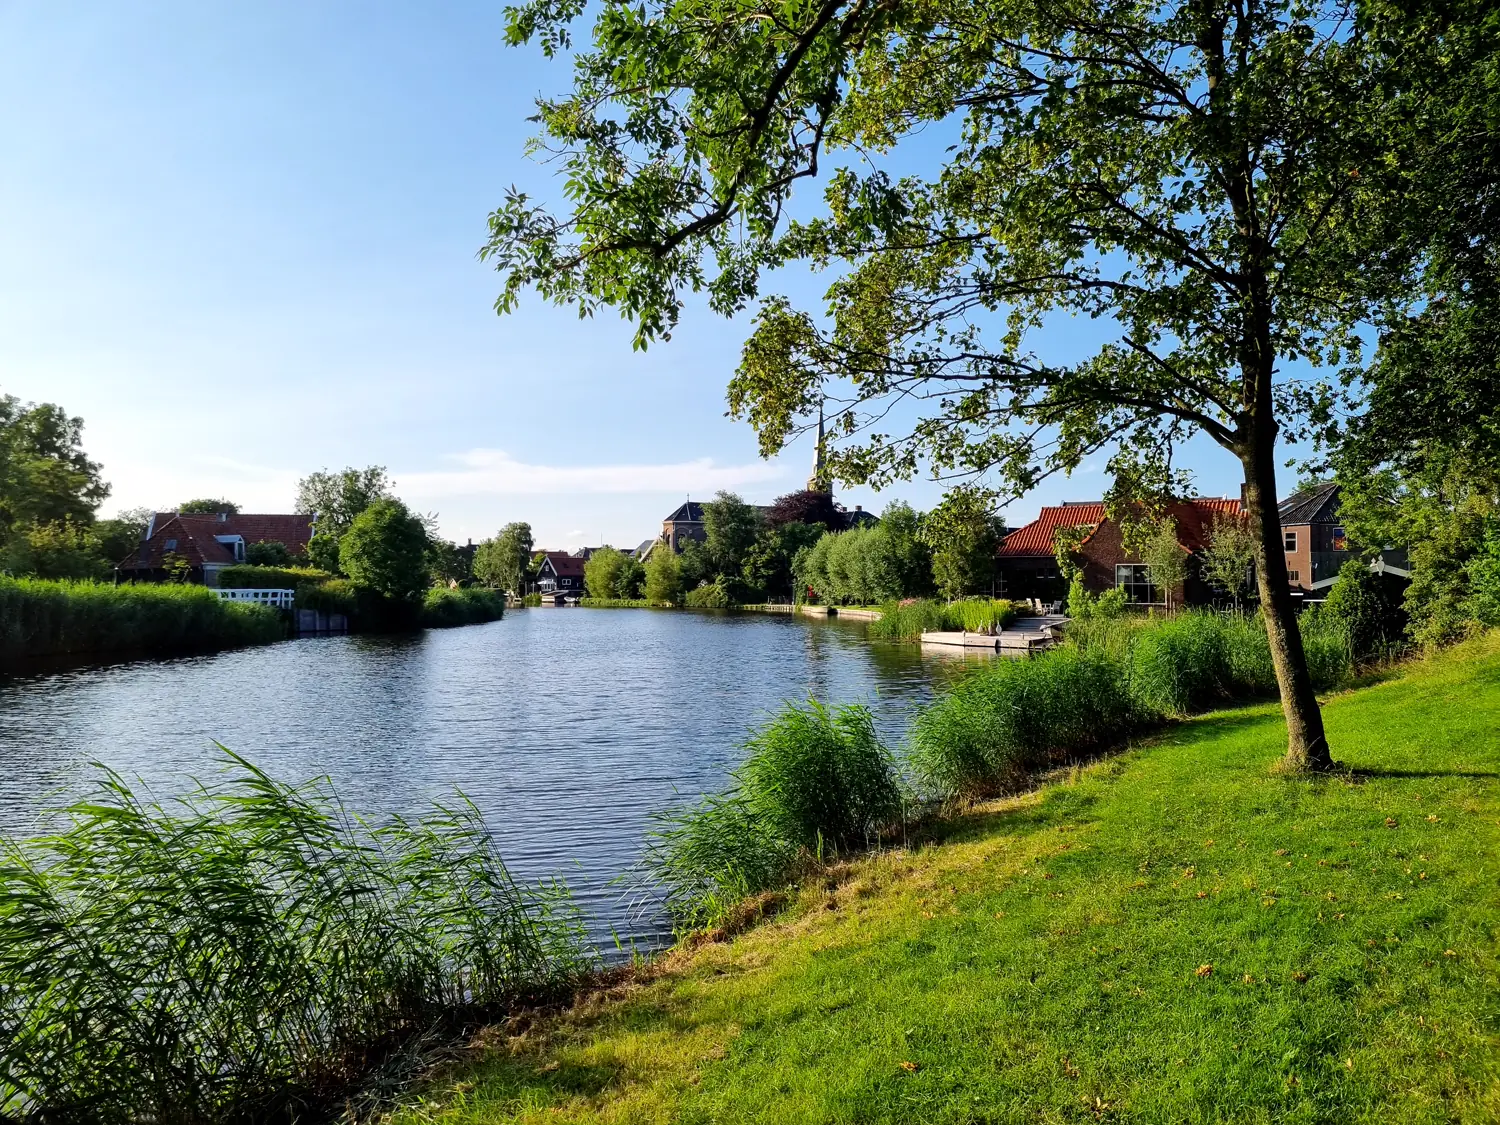
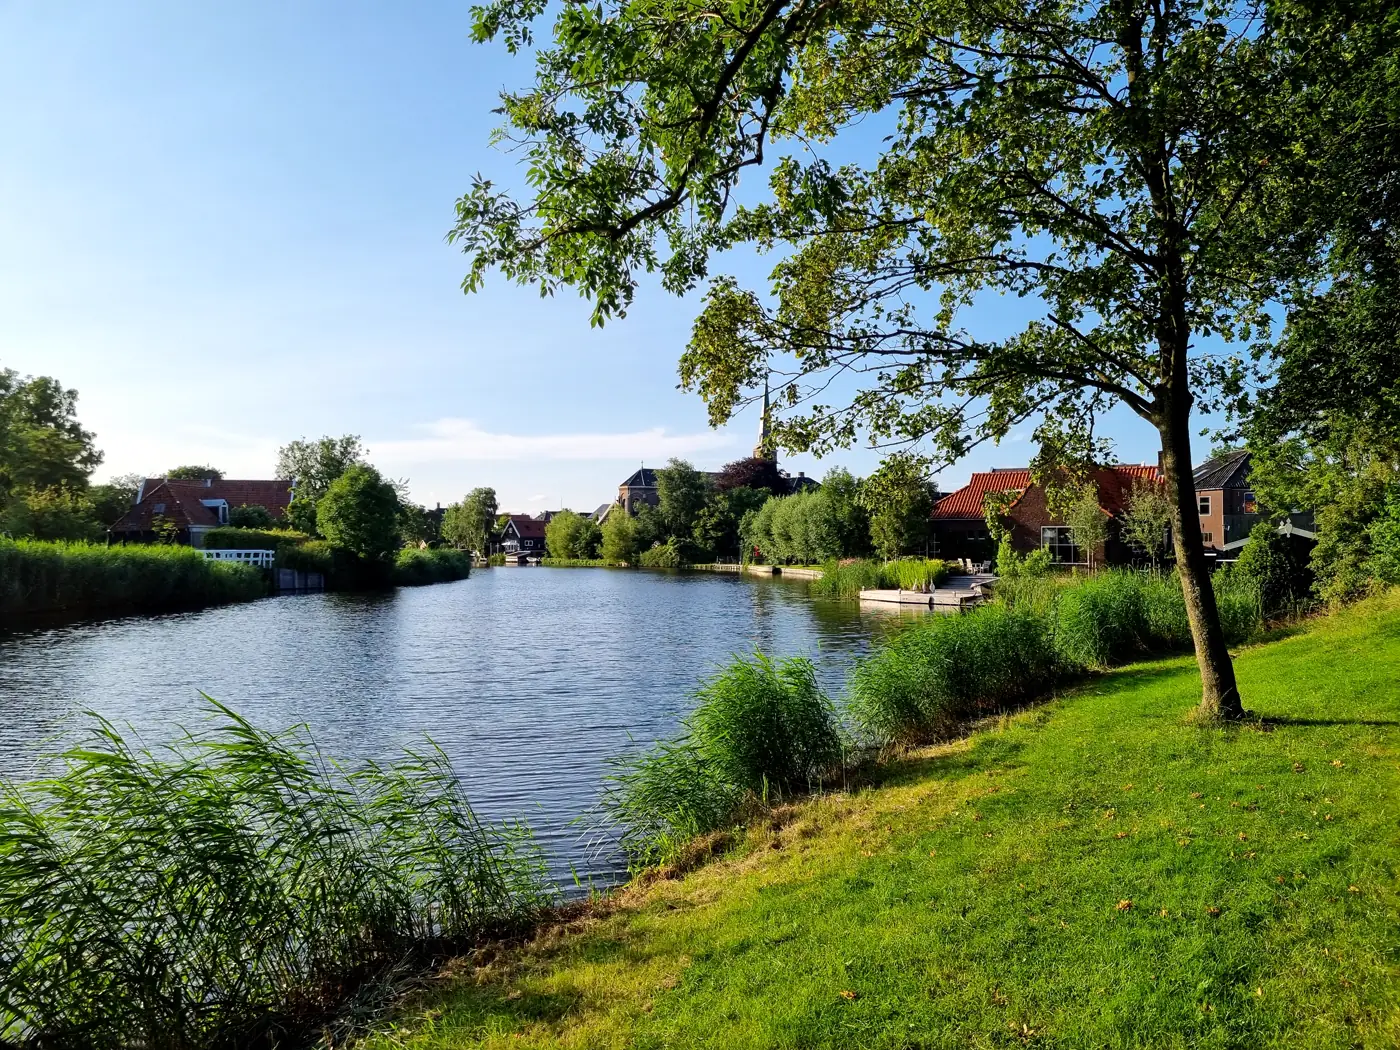
big seo push

diff --git a/index.html b/index.html
@@ -55,6 +55,14 @@
     },
     "areaServed": ["Purmerend", "Edam-Volendam", "Waterland", "Zaanstad", "Castricum", "Limmen", "Noord-Holland"],
     "serviceType": ["Webdesign", "Website ontwikkeling", "Logo design", "Branding"],
+    "openingHoursSpecification": [
+      {
+        "@type": "OpeningHoursSpecification",
+        "dayOfWeek": ["Monday", "Tuesday", "Wednesday", "Thursday", "Friday"],
+        "opens": "09:00",
+        "closes": "17:00"
+      }
+    ],
     "sameAs": ["https://www.instagram.com/brand.on.webdesign/"],
     "priceRange": "€€"
   }
@@ -245,6 +253,58 @@
               <h3>TEKENBUREAU WINTER</h3>
               <p>Tekenbureau</p>
               <div class="proj-tags"><span class="tag">Website</span><span class="tag">Branding</span><span class="tag">Fotografie</span></div>
+            </div>
+          </a>
+        </div>
+      </div>
+    </section>
+
+    <!-- ===================== BLOG TEASER ===================== -->
+    <section class="section bg-tint">
+      <div class="wrap">
+        <div class="section-head" data-reveal style="display:flex;justify-content:space-between;align-items:flex-end;max-width:none;gap:24px;flex-wrap:wrap">
+          <div>
+            <span class="eyebrow">03 — Blog</span>
+            <h2 class="h2" style="margin-top:20px">Inzichten uit de studio</h2>
+          </div>
+          <a class="text-link" href="/blog">Lees alle artikelen op de blog <span aria-hidden="true">↗</span></a>
+        </div>
+
+        <div class="blog-grid">
+          <a class="blog-card blog-card--prijzen" href="/blog-hoeveel-kost-een-website-mkb" data-reveal>
+            <div class="blog-card__cover">
+              <span class="blog-card__cat">Prijsgids</span>
+              <span class="blog-card__num" aria-hidden="true">01</span>
+            </div>
+            <div class="blog-card__body">
+              <span class="blog-card__meta">7 min lezen</span>
+              <h3 class="blog-card__title">Hoeveel kost een website voor een mkb-bedrijf?</h3>
+              <p class="blog-card__excerpt">Een heldere prijsgids: wat een professionele website voor het MKB gemiddeld kost, waar je voor betaalt en hoe je verborgen kosten voorkomt.</p>
+              <span class="text-link">Lees het artikel <span aria-hidden="true">↗</span></span>
+            </div>
+          </a>
+          <a class="blog-card blog-card--fotografie" href="/blog-website-klaarmaken-hoogseizoen" data-reveal style="--reveal-delay:.1s">
+            <div class="blog-card__cover">
+              <span class="blog-card__cat">Tips</span>
+              <span class="blog-card__num" aria-hidden="true">02</span>
+            </div>
+            <div class="blog-card__body">
+              <span class="blog-card__meta">6 min lezen</span>
+              <h3 class="blog-card__title">Klaar voor het hoogseizoen? Zo bereid je je website voor</h3>
+              <p class="blog-card__excerpt">Snelheid, mobiel, duidelijke acties en actuele info: zo maak je je website klaar voor een piek aan bezoekers in je drukste maanden.</p>
+              <span class="text-link">Lees het artikel <span aria-hidden="true">↗</span></span>
+            </div>
+          </a>
+          <a class="blog-card blog-card--hosting" href="/blog-website-eenmanszaak-bouw" data-reveal style="--reveal-delay:.2s">
+            <div class="blog-card__cover">
+              <span class="blog-card__cat">Branche</span>
+              <span class="blog-card__num" aria-hidden="true">03</span>
+            </div>
+            <div class="blog-card__body">
+              <span class="blog-card__meta">6 min lezen</span>
+              <h3 class="blog-card__title">Website voor een eenmanszaak in de bouw: wat moet erop staan?</h3>
+              <p class="blog-card__excerpt">Van projectfoto's tot offerteknop en lokale SEO: de complete checklist voor een bouwwebsite die echt opdrachten oplevert.</p>
+              <span class="text-link">Lees het artikel <span aria-hidden="true">↗</span></span>
             </div>
           </a>
         </div>

diff --git a/contact.html b/contact.html
@@ -15,19 +15,54 @@
   </script>
   <meta name="viewport" content="width=device-width, initial-scale=1.0">
   <title>Contact — Brand-On Webdesign studio</title>
-  <meta name="description" content="Neem contact op met Brand-On. Binnen één werkdag een persoonlijk antwoord. Geen verkooppraatje.">
+  <meta name="description" content="Neem contact op met Brand-On voor een nieuwe website of een vrijblijvend gesprek. Binnen één werkdag een persoonlijk antwoord, zonder verkooppraatje.">
   <link rel="canonical" href="https://brand-on.org/contact">
   <meta name="robots" content="index, follow">
   <meta name="geo.region" content="NL-NH">
   <meta name="geo.placename" content="Purmerend">
   <meta property="og:title" content="Contact — Brand-On Webdesign studio">
-  <meta property="og:description" content="Neem contact op met Brand-On. Binnen één werkdag een persoonlijk antwoord. Geen verkooppraatje.">
+  <meta property="og:description" content="Neem contact op met Brand-On voor een nieuwe website of een vrijblijvend gesprek. Binnen één werkdag een persoonlijk antwoord, zonder verkooppraatje.">
   <meta property="og:url" content="https://brand-on.org/contact">
   <meta property="og:type" content="website">
   <meta property="og:image" content="https://brand-on.org/assets/img/logo_blauw.png">
   <meta property="og:locale" content="nl_NL">
   <meta property="og:site_name" content="Brand-On">
   <meta name="twitter:card" content="summary">
+  <script type="application/ld+json">
+  {
+    "@context": "https://schema.org",
+    "@type": "ContactPage",
+    "name": "Contact — Brand-On",
+    "url": "https://brand-on.org/contact",
+    "inLanguage": "nl-NL",
+    "mainEntity": {
+      "@type": "LocalBusiness",
+      "@id": "https://brand-on.org/#business",
+      "name": "Brand-On",
+      "email": "[email redacted]",
+      "telephone": "[phone redacted]",
+      "url": "https://brand-on.org/",
+      "address": {
+        "@type": "PostalAddress",
+        "streetAddress": "Saint Helenabaai 31",
+        "postalCode": "1448 SK",
+        "addressLocality": "Purmerend",
+        "addressRegion": "Noord-Holland",
+        "addressCountry": "NL"
+      }
+    }
+  }
+  </script>
+  <script type="application/ld+json">
+  {
+    "@context": "https://schema.org",
+    "@type": "BreadcrumbList",
+    "itemListElement": [
+      { "@type": "ListItem", "position": 1, "name": "Home", "item": "https://brand-on.org/" },
+      { "@type": "ListItem", "position": 2, "name": "Contact", "item": "https://brand-on.org/contact" }
+    ]
+  }
+  </script>
   <link rel="preconnect" href="https://fonts.googleapis.com">
   <link rel="preconnect" href="https://fonts.gstatic.com" crossorigin>
   <link href="https://fonts.googleapis.com/css2?family=Sora:wght@400;500;600;700;800&family=IBM+Plex+Mono:wght@400;500;600&family=IBM+Plex+Sans:wght@400;500;600;700&display=swap" rel="stylesheet" media="print" onload="this.media='all'">

diff --git a/gratis-concept.html b/gratis-concept.html
@@ -27,6 +27,35 @@
   <meta property="og:locale" content="nl_NL">
   <meta property="og:site_name" content="Brand-On">
   <meta name="twitter:card" content="summary">
+  <script type="application/ld+json">
+  {
+    "@context": "https://schema.org",
+    "@type": "WebPage",
+    "name": "Gratis concept aanvragen — Brand-On",
+    "url": "https://brand-on.org/gratis-concept",
+    "inLanguage": "nl-NL",
+    "description": "Vraag een gratis website concept aan. Wij bouwen een vrijblijvende live demo op basis van jouw huisstijl.",
+    "isPartOf": { "@id": "https://brand-on.org/#business" },
+    "mainEntity": {
+      "@type": "Offer",
+      "name": "Gratis website concept",
+      "price": "0",
+      "priceCurrency": "EUR",
+      "url": "https://brand-on.org/gratis-concept",
+      "seller": { "@id": "https://brand-on.org/#business" }
+    }
+  }
+  </script>
+  <script type="application/ld+json">
+  {
+    "@context": "https://schema.org",
+    "@type": "BreadcrumbList",
+    "itemListElement": [
+      { "@type": "ListItem", "position": 1, "name": "Home", "item": "https://brand-on.org/" },
+      { "@type": "ListItem", "position": 2, "name": "Gratis concept", "item": "https://brand-on.org/gratis-concept" }
+    ]
+  }
+  </script>
   <link rel="preconnect" href="https://fonts.googleapis.com">
   <link rel="preconnect" href="https://fonts.gstatic.com" crossorigin>
   <link href="https://fonts.googleapis.com/css2?family=Sora:wght@400;500;600;700;800&family=IBM+Plex+Mono:wght@400;500;600&family=IBM+Plex+Sans:wght@400;500;600;700&display=swap" rel="stylesheet" media="print" onload="this.media='all'">

diff --git a/over-ons.html b/over-ons.html
@@ -28,6 +28,33 @@
   <meta property="og:locale" content="nl_NL">
   <meta property="og:site_name" content="Brand-On">
   <meta name="twitter:card" content="summary">
+  <script type="application/ld+json">
+  {
+    "@context": "https://schema.org",
+    "@type": "AboutPage",
+    "name": "Over ons — Brand-On",
+    "url": "https://brand-on.org/over-ons",
+    "inLanguage": "nl-NL",
+    "about": {
+      "@type": "Organization",
+      "@id": "https://brand-on.org/#business",
+      "name": "Brand-On",
+      "url": "https://brand-on.org/",
+      "logo": "https://brand-on.org/assets/img/logo_blauw.png",
+      "sameAs": ["https://www.instagram.com/brand.on.webdesign/"]
+    }
+  }
+  </script>
+  <script type="application/ld+json">
+  {
+    "@context": "https://schema.org",
+    "@type": "BreadcrumbList",
+    "itemListElement": [
+      { "@type": "ListItem", "position": 1, "name": "Home", "item": "https://brand-on.org/" },
+      { "@type": "ListItem", "position": 2, "name": "Over ons", "item": "https://brand-on.org/over-ons" }
+    ]
+  }
+  </script>
   <link rel="preconnect" href="https://fonts.googleapis.com">
   <link rel="preconnect" href="https://fonts.gstatic.com" crossorigin>
   <link href="https://fonts.googleapis.com/css2?family=Sora:wght@400;500;600;700;800&family=IBM+Plex+Mono:wght@400;500;600&family=IBM+Plex+Sans:wght@400;500;600;700&display=swap" rel="stylesheet" media="print" onload="this.media='all'">

diff --git a/privacy.html b/privacy.html
@@ -15,19 +15,40 @@
   </script>
   <meta name="viewport" content="width=device-width, initial-scale=1.0">
   <title>Privacybeleid | Brand-On</title>
-  <meta name="description" content="Privacybeleid van Brand-On. Lees hoe wij omgaan met jouw gegevens.">
+  <meta name="description" content="Privacybeleid van Brand-On. Lees welke persoonsgegevens wij verzamelen, waarvoor we ze gebruiken, hoe lang we ze bewaren en welke rechten jij hebt.">
   <link rel="canonical" href="https://brand-on.org/privacy">
   <meta name="robots" content="index, follow">
   <meta name="geo.region" content="NL-NH">
   <meta name="geo.placename" content="Purmerend">
   <meta property="og:title" content="Privacybeleid | Brand-On">
-  <meta property="og:description" content="Privacybeleid van Brand-On. Lees hoe wij omgaan met jouw gegevens.">
+  <meta property="og:description" content="Privacybeleid van Brand-On. Lees welke persoonsgegevens wij verzamelen, waarvoor we ze gebruiken, hoe lang we ze bewaren en welke rechten jij hebt.">
   <meta property="og:url" content="https://brand-on.org/privacy">
   <meta property="og:type" content="website">
   <meta property="og:image" content="https://brand-on.org/assets/img/logo_blauw.png">
   <meta property="og:locale" content="nl_NL">
   <meta property="og:site_name" content="Brand-On">
   <meta name="twitter:card" content="summary">
+  <script type="application/ld+json">
+  {
+    "@context": "https://schema.org",
+    "@type": "WebPage",
+    "name": "Privacybeleid — Brand-On",
+    "url": "https://brand-on.org/privacy",
+    "inLanguage": "nl-NL",
+    "description": "Privacybeleid van Brand-On: hoe wij omgaan met jouw persoonsgegevens.",
+    "isPartOf": { "@id": "https://brand-on.org/#business" }
+  }
+  </script>
+  <script type="application/ld+json">
+  {
+    "@context": "https://schema.org",
+    "@type": "BreadcrumbList",
+    "itemListElement": [
+      { "@type": "ListItem", "position": 1, "name": "Home", "item": "https://brand-on.org/" },
+      { "@type": "ListItem", "position": 2, "name": "Privacybeleid", "item": "https://brand-on.org/privacy" }
+    ]
+  }
+  </script>
   <link rel="preconnect" href="https://fonts.googleapis.com">
   <link rel="preconnect" href="https://fonts.gstatic.com" crossorigin>
   <link href="https://fonts.googleapis.com/css2?family=Sora:wght@400;500;600;700;800&family=IBM+Plex+Mono:wght@400;500;600&family=IBM+Plex+Sans:wght@400;500;600;700&display=swap" rel="stylesheet" media="print" onload="this.media='all'">

diff --git a/projecten.html b/projecten.html
@@ -138,6 +138,16 @@
     <!-- ===================== PROJECT GRID ===================== -->
     <section class="section bg-white">
       <div class="wrap">
+        <div class="split split--center" style="margin-bottom:56px;">
+          <div data-reveal>
+            <span class="eyebrow">Ons werk</span>
+            <h2 class="h2" style="margin-top:20px">Maatwerk voor<br>elke ondernemer.</h2>
+          </div>
+          <div class="stack measure" data-reveal style="--reveal-delay:.1s">
+            <p>Elk project begint bij de ondernemer erachter. Hieronder zie je een selectie van de webdesign projecten die we de afgelopen tijd in Noord-Holland en daarbuiten hebben opgeleverd: van een videoproductiebedrijf en een projectmanagementbureau tot een tekenbureau en een persoonlijk portfolio. Stuk voor stuk maatwerk, gebouwd rond de huisstijl en de doelen van de klant.</p>
+            <p>We werken voor zzp'ers en mkb-bedrijven uit uiteenlopende branches en pakken naast de website vaak ook de branding, het logo en de fotografie op. Heb je zelf een idee voor een nieuwe of vernieuwde website? <a href="/gratis-concept" style="color:#7eb6ff;font-weight:600;">Vraag een gratis concept aan</a> en we bouwen vrijblijvend een live voorproefje op basis van jouw huisstijl.</p>
+          </div>
+        </div>
         <div class="filterbar" data-filterbar data-reveal aria-label="Filter projecten">
           <button class="active" data-filter="all">Alles</button>
           <button data-filter="Website">Website</button>
@@ -154,7 +164,7 @@
             </div>
             <div class="proj-body">
               <h3>ONEMANCREW</h3>
-              <p>Video-productie bedrijf</p>
+              <p>Website, branding en fotografie voor een videoproductiebedrijf.</p>
               <div class="proj-tags"><span class="tag">Website</span><span class="tag">Branding</span><span class="tag">Fotografie</span></div>
             </div>
           </a>
@@ -167,7 +177,7 @@
             </div>
             <div class="proj-body">
               <h3>EDFICIENT</h3>
-              <p>Projectmanagement</p>
+              <p>Website en branding voor een projectmanagementbureau.</p>
               <div class="proj-tags"><span class="tag">Website</span><span class="tag">Branding</span></div>
             </div>
           </a>
@@ -180,7 +190,7 @@
             </div>
             <div class="proj-body">
               <h3>SENNA HOGENDOORN</h3>
-              <p>Cybersecurity</p>
+              <p>Portfolio en branding voor een cybersecurity specialist.</p>
               <div class="proj-tags"><span class="tag">Website</span><span class="tag">Branding</span></div>
             </div>
           </a>
@@ -193,7 +203,7 @@
             </div>
             <div class="proj-body">
               <h3>TEKENBUREAU WINTER</h3>
-              <p>Tekenbureau</p>
+              <p>Website, branding en fotografie voor een tekenbureau.</p>
               <div class="proj-tags"><span class="tag">Website</span><span class="tag">Branding</span><span class="tag">Fotografie</span></div>
             </div>
           </a>

diff --git a/blog-hoeveel-kost-een-website-mkb.html b/blog-hoeveel-kost-een-website-mkb.html
@@ -15,7 +15,7 @@
   </script>
   <meta name="viewport" content="width=device-width, initial-scale=1.0">
   <title>Hoeveel kost een website voor een mkb-bedrijf? | Brand-On</title>
-  <meta name="description" content="Hoeveel kost een website voor een mkb-bedrijf? Ontdek de gemiddelde prijzen, waar je voor betaalt en hoe je verborgen kosten voorkomt. Heldere prijsgids van Brand-On.">
+  <meta name="description" content="Wat kost een website voor het mkb? Ontdek de gemiddelde prijzen, waar je voor betaalt en hoe je verborgen kosten voorkomt. Prijsgids van Brand-On.">
   <link rel="canonical" href="https://brand-on.org/blog-hoeveel-kost-een-website-mkb">
   <meta name="robots" content="index, follow">
   <meta name="author" content="Senna Hogendoorn">

diff --git a/blog-website-klaarmaken-hoogseizoen.html b/blog-website-klaarmaken-hoogseizoen.html
@@ -15,7 +15,7 @@
   </script>
   <meta name="viewport" content="width=device-width, initial-scale=1.0">
   <title>Klaar voor het hoogseizoen? Zo bereid je je website voor op meer bezoekers | Brand-On</title>
-  <meta name="description" content="Komt het hoogseizoen eraan? Zo maak je je website klaar voor meer bezoekers: snelheid, mobiel, duidelijke acties en actuele info. Praktische checklist van Brand-On.">
+  <meta name="description" content="Komt het hoogseizoen eraan? Zo maak je je website klaar voor meer bezoekers: snelheid, mobiel, duidelijke acties en actuele info. Checklist van Brand-On.">
   <link rel="canonical" href="https://brand-on.org/blog-website-klaarmaken-hoogseizoen">
   <meta name="robots" content="index, follow">
   <meta name="author" content="Senna Hogendoorn">